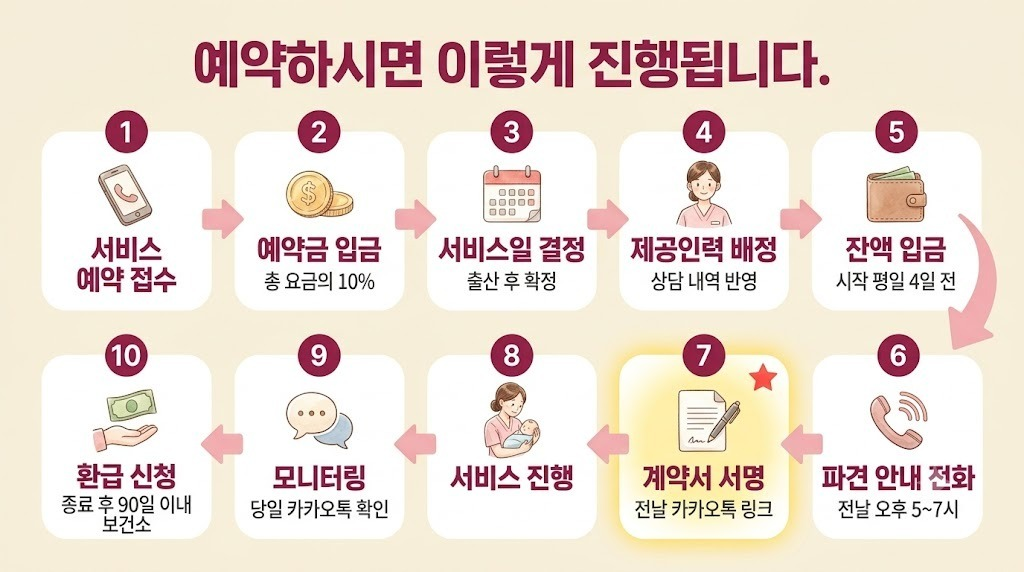
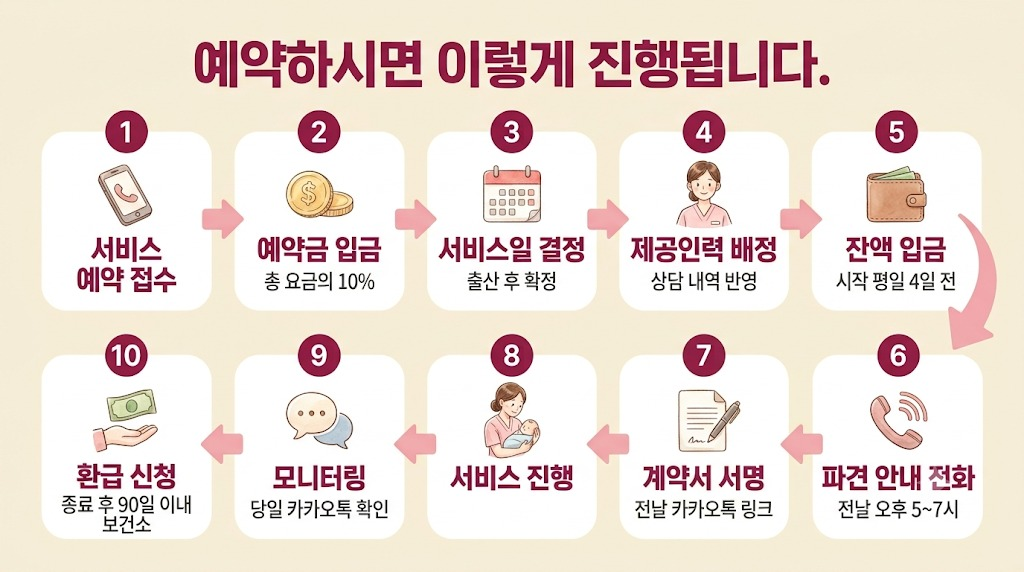
목차 항상 전체 표시(코스 밖 화면은 흐림), 절차 이미지 균등 강조, 마무리 이미지 단독 크게, 공식 로고 표지·목차 배치

Changed region(s): [[0.5938, 0.5944, 0.7812, 0.9808]]

diff --git a/index.html b/index.html
@@ -39,7 +39,8 @@ body.presenting.menu .rail{display:flex;position:fixed;left:0;top:0;bottom:0;wid
 .railveil{position:fixed;inset:0;background:rgba(35,26,30,.42);z-index:81;display:none;}
 body.presenting.menu .railveil{display:block;}
 .rail-h{padding:20px 20px 14px;border-bottom:1px solid rgba(255,255,255,.1);}
-.rail-h .logo{font-family:"Gowun Batang",serif;font-weight:700;font-size:21px;color:#FFFFFF;letter-spacing:-.02em;}
+.raillogo{background:#FFFFFF;border-radius:11px;padding:8px 12px;display:inline-block;}
+.raillogo img{height:25px;width:auto;display:block;}
 .rail-h .tag{font-size:13px;color:#9FB4CE;margin-top:2px;}
 .prog{height:5px;background:rgba(255,255,255,.14);border-radius:99px;margin-top:12px;overflow:hidden;}
 .prog i{display:block;height:100%;background:linear-gradient(90deg,#E24B86,#C2185B);border-radius:99px;transition:width .3s;}
@@ -50,6 +51,8 @@ body.presenting.menu .railveil{display:block;}
 .snav:hover{background:rgba(255,255,255,.09);color:#FFFFFF;}
 .snav.on{background:var(--brand);color:#fff;}
 .snav.done .sn{background:#2E7D53;color:#fff;border-color:#2E7D53;}
+.snav.off{opacity:.5;}
+.snav.off:hover{opacity:.95;}
 .snav.on .sn{background:rgba(255,255,255,.22);color:#fff;border-color:transparent;}
 .sn{flex:0 0 24px;width:24px;height:24px;border-radius:7px;border:1.5px solid rgba(255,255,255,.22);
   background:rgba(255,255,255,.06);display:grid;place-items:center;font-size:12px;font-weight:600;
@@ -188,7 +191,8 @@ figure.shot figcaption{font-size:13.5px;color:var(--text-3);margin-top:5px;line-
 .procsplit{grid-template-columns:0.52fr 1.48fr;align-items:start;}
 .procsplit figure.shot img{max-height:600px;}
 .pk.way{padding:16px 12px;}
-.lgtop{font-size:12px;font-weight:600;letter-spacing:.3em;color:var(--navy);opacity:.8;margin-bottom:6px;}
+.coverlogo{height:52px;width:auto;margin-bottom:9px;}
+.lgtop{font-size:12px;font-weight:600;letter-spacing:.22em;color:var(--navy);opacity:.8;margin-bottom:4px;}
 .modes{display:grid;grid-template-columns:repeat(3,1fr);gap:11px;margin:4px 0 8px;max-width:820px;margin-left:auto;margin-right:auto;}
 @media (max-width:760px){.modes{grid-template-columns:1fr;}}
 .modecard{background:linear-gradient(180deg,#FFFFFF,#FFFAFC);border:2px solid var(--line-2);border-radius:18px;padding:14px 13px;box-shadow:0 4px 16px -10px rgba(150,25,80,.15);
@@ -201,14 +205,9 @@ figure.shot figcaption{font-size:13.5px;color:var(--text-3);margin-top:5px;line-
 .pk.regionpk{padding:13px 6px;border-radius:12px;}
 .pk.regionpk .tl2{font-size:17px;}
 .capgrid{display:grid;grid-template-columns:repeat(3,1fr);gap:10px;}
-.closewrap{display:grid;grid-template-columns:auto 1fr;gap:36px;align-items:center;max-width:960px;margin:4px auto 10px;}
+.closewrap{display:flex;justify-content:center;margin:2px auto 8px;}
 .closewrap figure.shot{margin:0;}
-.closewrap figure.shot img{max-height:520px;box-shadow:0 22px 50px -24px rgba(150,25,80,.45);}
-.bless{text-align:center;}
-.bless .b1{font-family:"Gowun Batang",serif;font-size:52px;font-weight:700;color:var(--brand-d);line-height:1.3;letter-spacing:-.02em;}
-.bless .b2{font-size:26px;color:var(--navy-d);line-height:1.65;margin-top:18px;}
-.bless .b3{margin-top:22px;font-size:15px;color:var(--text-3);letter-spacing:.22em;}
-@media (max-width:900px){.closewrap{grid-template-columns:1fr;}.bless .b1{font-size:34px;}.bless .b2{font-size:20px;}}
+.closewrap figure.shot img{max-height:620px;box-shadow:0 22px 50px -24px rgba(150,25,80,.45);}
 .procwide{display:flex;justify-content:center;}
 .procwide figure.shot{margin:0;max-width:1050px;width:100%;}
 .procwide figure.shot img{max-height:540px;width:100%;object-fit:contain;background:transparent;}
@@ -650,8 +649,9 @@ figure.shot.short img{max-height:210px;}
   <div class="cover-in">
     <figure class="shot cover-ph" data-ph="hero-consult.jpg" data-cap="">
       <div class="ph"><div class="pt">상담 첫 화면 사진<span class="pf">images / hero-consult.jpg</span></div></div></figure>
-    <div class="lgtop">CHAMSARANG · SINCE 1998</div>
-      <div class="lg">참사랑어머니회<br>맞춤 상담</div>
+    <img class="coverlogo" src="images/logo.png" alt="참사랑어머니회">
+      <div class="lgtop">SINCE 1998 · 산모신생아 건강관리</div>
+      <div class="lg">맞춤 상담</div>
     <div class="sb">산모님 한 분 한 분, 상황에 맞춰 설계해 드리는 상담입니다.<br><b>지금 상황에 가까운 쪽</b>을 골라 시작하세요.</div>
     <div class="modes">
       <button class="modecard" data-mode="first" type="button">
@@ -675,7 +675,7 @@ figure.shot.short img{max-height:210px;}
 <div class="app">
   <nav class="rail">
     <div class="rail-h">
-      <div class="logo">참사랑어머니회</div>
+      <div class="raillogo"><img src="images/logo.png" alt="참사랑어머니회"></div>
       <div class="tag">베이비페어 상담 · 창원</div>
       <div class="prog"><i id="progBar" style="width:0%"></i></div>
       <div class="prog-t" id="progTxt">0 / 0</div>
@@ -1448,13 +1448,7 @@ function guPhone(){
 }
 function s_close(){
   return head("마무리", "오늘 함께해 주셔서 감사합니다") +
-  '<div class="closewrap">' +
-    photo("closing-bless.jpg","","tall") +
-    '<div class="bless">' +
-      '<div class="b1">엄마가 된 당신을<br>응원합니다</div>' +
-      '<div class="b2">산모님과 아기의 모든 날이<br>건강하고 따뜻하기를</div>' +
-      '<div class="b3">참사랑어머니회 드림</div>' +
-    '</div></div>' +
+  '<div class="closewrap">' + photo("closing-bless.jpg","","tall") + '</div>' +
   (justSaved ? '<div class="saved" style="text-align:center;">✓ 오늘 상담을 저장했습니다.</div>' : '') +
   '<div style="text-align:center;margin-top:6px;"><button class="btn" id="newBtn2" type="button">새 상담 시작</button></div>' +
   '<div class="chk" data-staff hidden><h4>상담자 마무리 체크 <span class="cnt">저장·전달</span></h4>' +
@@ -2025,11 +2019,13 @@ function exportCsv(){
 var showScript = false;
 function renderNav(){
   var v = visible(), pos = v.indexOf(cur), h = "", lastG = null;
-  v.forEach(function(i, n){
-    var s = STEPS[i];
+  STEPS.forEach(function(s, i){
+    var ci = v.indexOf(i);           // 코스 내 순서 (-1이면 코스 밖)
     if (s.group !== lastG){ h += '<div class="sgroup">'+s.group+'</div>'; lastG = s.group; }
-    h += '<button class="snav'+(i===cur?" on":(n<pos?" done":""))+'" data-go="'+i+'" type="button">' +
-      '<span class="sn">'+(n<pos?"✓":(n+1))+'</span><span class="st">'+s.nav+'</span></button>';
+    var cls = "snav" + (i===cur ? " on" : (ci>=0 && ci<pos ? " done" : "")) + (ci<0 ? " off" : "");
+    var num = ci<0 ? "·" : (ci<pos ? "✓" : (ci+1));
+    h += '<button class="'+cls+'" data-go="'+i+'" type="button">' +
+      '<span class="sn">'+num+'</span><span class="st">'+s.nav+'</span></button>';
   });
   document.getElementById("stepNav").innerHTML = h;
   var pct = v.length>1 ? Math.round(pos/(v.length-1)*100) : 0;
